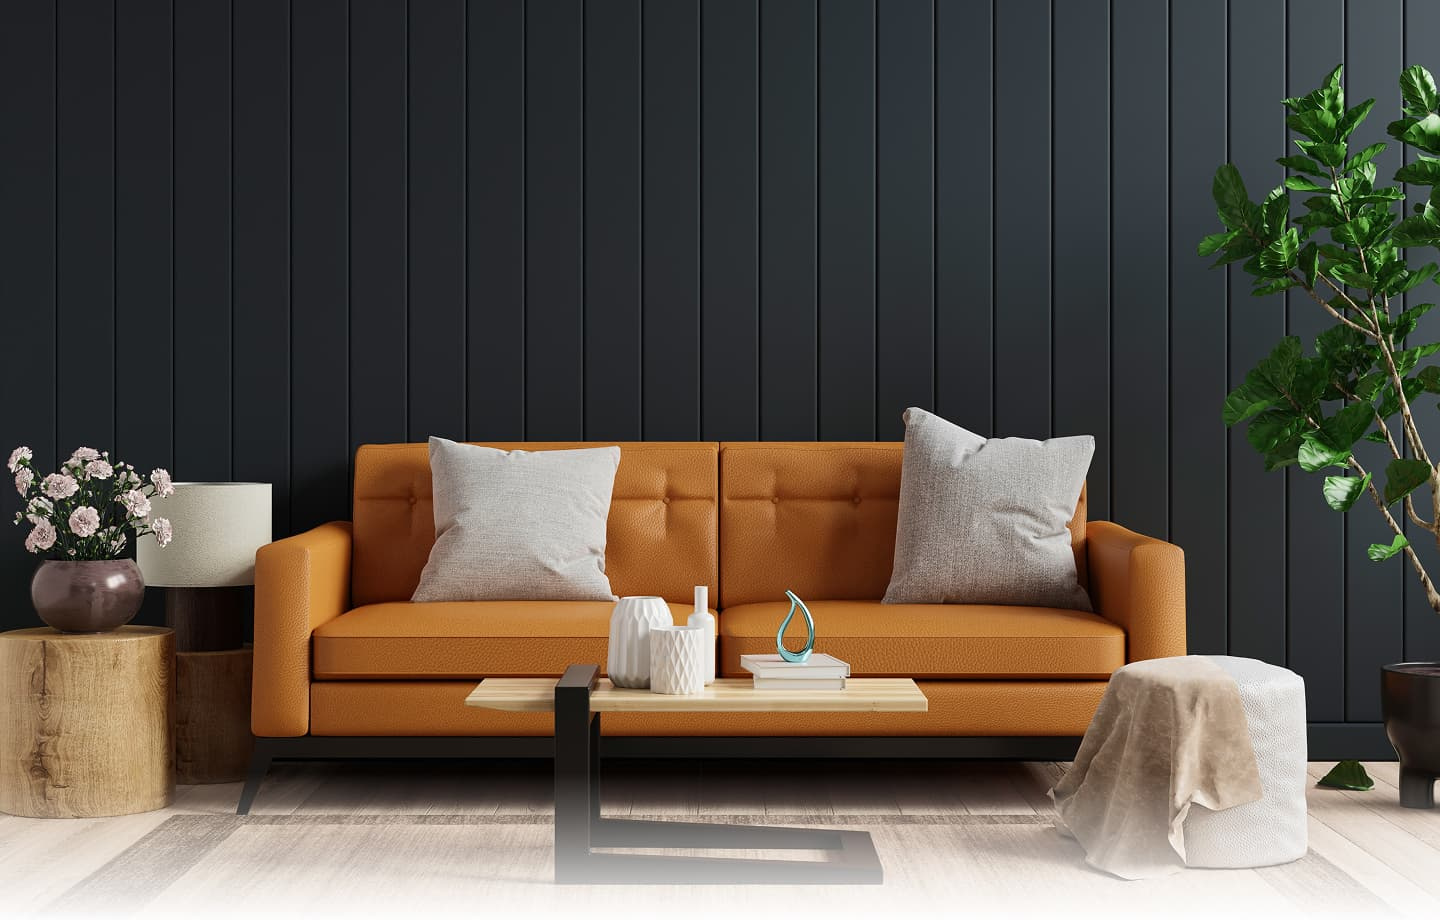
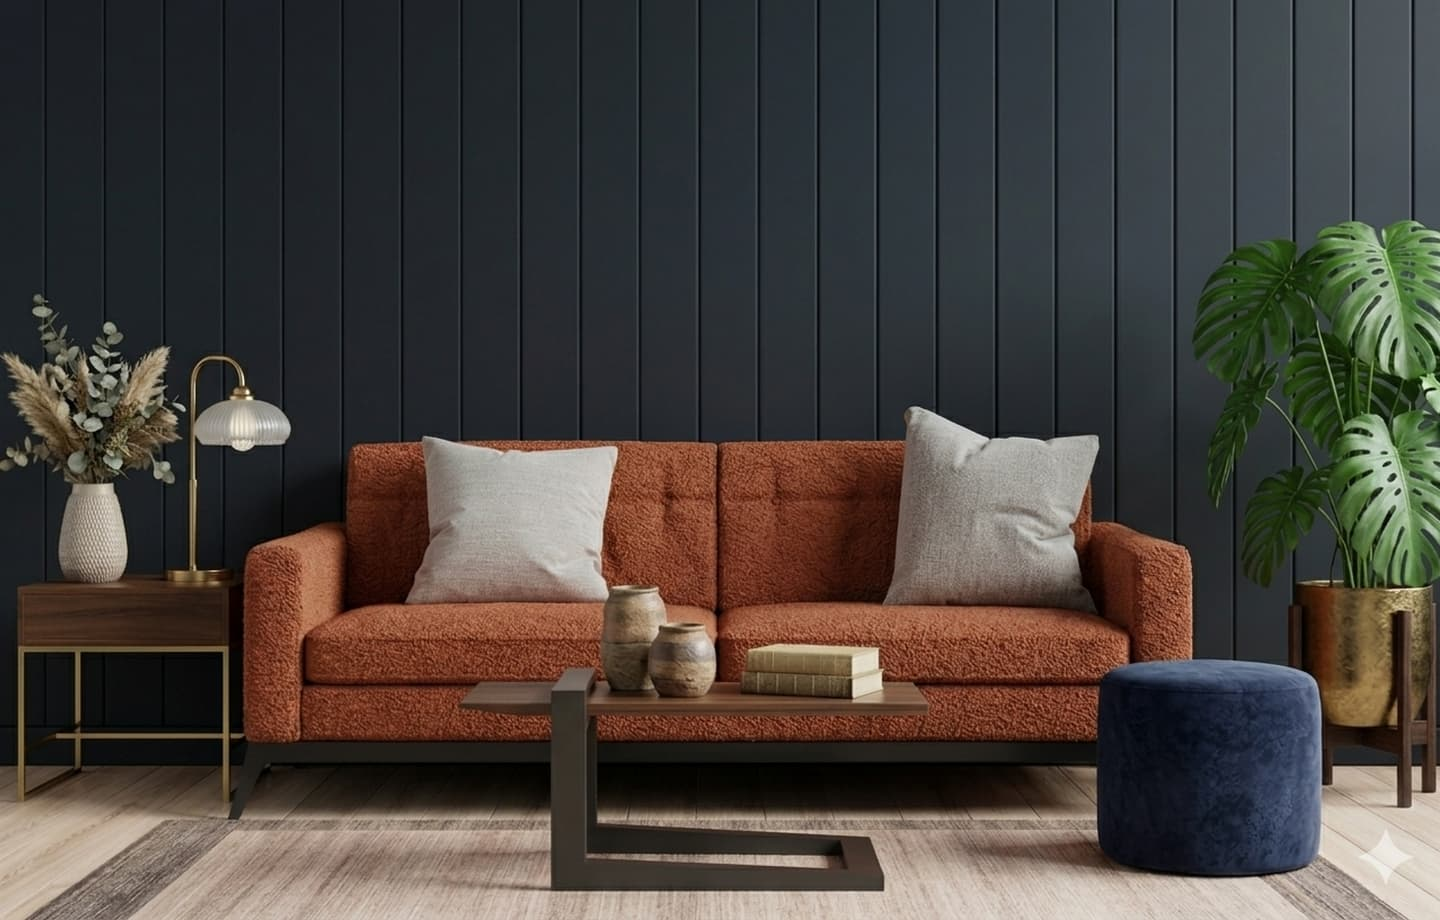
mobile menu

diff --git a/src/app/components/shared/MobileMenu.jsx b/src/app/components/shared/MobileMenu.jsx
@@ -1,0 +1,133 @@
+"use client";
+
+import { useState, useEffect, useRef } from "react";
+import { Menu, X, ArrowUp } from "lucide-react";
+import { menuItems } from "@/lib/constants";
+
+export default function MobileMenu() {
+  const [isOpen, setIsOpen] = useState(false);
+  const [isScrollingUp, setIsScrollingUp] = useState(false);
+  const [isPastHero, setIsPastHero] = useState(false);
+  const [scrollDirection, setScrollDirection] = useState("down");
+  const lastScrollYRef = useRef(0);
+  const heroHeightRef = useRef(0);
+
+  // Handle scroll detection for "Back to Top" button
+  useEffect(() => {
+    const handleScroll = () => {
+      const currentScrollY = window.scrollY;
+
+      // Get hero section height (viewport height as proxy)
+      const heroHeight = window.innerHeight;
+      heroHeightRef.current = heroHeight;
+
+      // Detect if past hero section
+      setIsPastHero(currentScrollY > heroHeight);
+
+      // Detect scroll direction
+      if (currentScrollY < lastScrollYRef.current) {
+        // Scrolling up
+        setScrollDirection("up");
+        setIsScrollingUp(currentScrollY > heroHeight);
+      } else {
+        // Scrolling down
+        setScrollDirection("down");
+        setIsScrollingUp(false);
+      }
+
+      lastScrollYRef.current = currentScrollY;
+    };
+
+    window.addEventListener("scroll", handleScroll, { passive: true });
+    return () => window.removeEventListener("scroll", handleScroll);
+  }, []);
+
+  const toggleMenu = () => {
+    setIsOpen(!isOpen);
+  };
+
+  const handleLinkClick = (e, item) => {
+    // Handle "Back to top" with smooth scroll
+    if (item.isBackToTop) {
+      e.preventDefault();
+      window.scrollTo({
+        top: 0,
+        behavior: "smooth",
+      });
+    }
+    setIsOpen(false);
+  };
+
+  // Show floating button on mobile when scrolling up and past hero
+  const shouldShowFloatingButton = isPastHero && isScrollingUp;
+
+  return (
+    <>
+      {/* Hamburger Button in navbar - always visible on mobile */}
+      <button
+        onClick={toggleMenu}
+        className="md:hidden flex items-center justify-center text-white hover:text-gray-200 transition-colors duration-200 focus:outline-none focus:ring-2 focus:ring-white focus:ring-offset-2 focus:ring-offset-transparent rounded"
+        aria-label="Toggle menu"
+        aria-expanded={isOpen}
+      >
+        {isOpen ? <X size={28} /> : <Menu size={28} />}
+      </button>
+
+      {/* Floating Hamburger Button - only visible on mobile when scrolling up past hero */}
+      {shouldShowFloatingButton && (
+        <button
+          onClick={toggleMenu}
+          className="md:hidden fixed bottom-8 right-8 z-50 flex items-center justify-center text-white bg-linear-to-br from-blue-600 to-blue-700 hover:from-blue-700 hover:to-blue-800 transition-all duration-300 rounded-full p-4 shadow-lg hover:shadow-xl focus:outline-none focus:ring-2 focus:ring-white focus:ring-offset-2 focus:ring-offset-transparent"
+          aria-label="Toggle menu"
+          aria-expanded={isOpen}
+        >
+          {isOpen ? <X size={28} /> : <Menu size={28} />}
+        </button>
+      )}
+
+      {/* Mobile Menu Panel */}
+      <div
+        className={`fixed left-0 top-0 min-h-screen w-64 bg-linear-to-b from-gray-900 to-gray-800 shadow-lg z-50 transform transition-transform duration-300 ease-in-out ${
+          isOpen ? "translate-x-0" : "-translate-x-full"
+        }`}
+      >
+        {/* Close Button */}
+        <div className="flex items-center justify-between p-5 border-b border-gray-700">
+          <span className="text-white text-lg font-semibold">Menu</span>
+          <button
+            onClick={toggleMenu}
+            className="text-white hover:text-gray-200 transition-colors focus:outline-none focus:ring-2 focus:ring-white rounded"
+            aria-label="Close menu"
+          >
+            <X size={24} />
+          </button>
+        </div>
+
+        {/* Menu Items */}
+        <nav className="pt-4">
+          {menuItems.map((item) => (
+            <a
+              key={item.href}
+              href={item.href}
+              onClick={(e) => handleLinkClick(e, item)}
+              className={`flex items-center gap-3 px-5 py-3 text-white navbar-item hover:bg-gray-700 transition-colors duration-200 border-b border-gray-700 last:border-b-0 ${
+                item.isBackToTop ? "bg-gray-800 font-semibold" : ""
+              }`}
+            >
+              {item.isBackToTop && <ArrowUp size={18} />}
+              {item.label}
+            </a>
+          ))}
+        </nav>
+      </div>
+
+      {/* Overlay/Backdrop - closes menu when clicked outside */}
+      {isOpen && (
+        <div
+          onClick={() => setIsOpen(false)}
+          className="fixed inset-0 bg-transparent z-40 md:hidden"
+        />
+      )}
+    </>
+  );
+}

diff --git a/src/lib/constants.js b/src/lib/constants.js
@@ -1,25 +1,35 @@
-const products = [
-  {
-    id: 1,
-    name: "Sakarias Armchair",
-    image: "/image/products/product_1.jpg",
-  },
-  {
-    id: 2,
-    name: "Baltsar Chair",
-    image: "/image/products/product_2.jpg",
-  },
-  {
-    id: 3,
-    name: "Anjay Chair",
-    image: "/image/products/product_3.jpg",
-  },
-  {
-    id: 4,
-    name: "Nyantuy Chair",
-    image: "/image/products/product_4.jpg",
-  },
+const menuItems = [
+  { href: "#features", label: "Features" },
+  { href: "#products", label: "Products" },
+  { href: "#experiences", label: "Experience" },
+  { href: "#materials", label: "Materials" },
+  { href: "#testimonials", label: "Testimonials" },
+  { href: "#contacts", label: "Contacts" },
+  { href: "#top", label: "Back to top", isBackToTop: true },
 ];
+
+// const products = [
+//   {
+//     id: 1,
+//     name: "Sakarias Armchair",
+//     image: "/image/products/product_1.jpg",
+//   },
+//   {
+//     id: 2,
+//     name: "Baltsar Chair",
+//     image: "/image/products/product_2.jpg",
+//   },
+//   {
+//     id: 3,
+//     name: "Anjay Chair",
+//     image: "/image/products/product_3.jpg",
+//   },
+//   {
+//     id: 4,
+//     name: "Nyantuy Chair",
+//     image: "/image/products/product_4.jpg",
+//   },
+// ];
 
 const testimonials = [
   {
@@ -98,9 +108,9 @@ const testimonials = [
 const works = [
   {
     id: 1,
-    name: "White Sofa",
-    before: "/image/products/photo_1_1.jpg",
-    after: "/image/products/photo_1_2.jpg",
+    name: "Red Sofa",
+    before: "/image/products/photo_4_1.jpg",
+    after: "/image/products/photo_4_2.jpg",
   },
   {
     id: 2,
@@ -116,10 +126,10 @@ const works = [
   },
   {
     id: 4,
-    name: "Red Sofa",
-    before: "/image/products/photo_4_1.jpg",
-    after: "/image/products/photo_4_2.jpg",
+    name: "White Sofa",
+    before: "/image/products/photo_1_1.jpg",
+    after: "/image/products/photo_1_2.jpg",
   },
 ];
 
-export { products, testimonials, works };
+export { menuItems, testimonials, works };

diff --git a/src/app/components/layout/Products.jsx b/src/app/components/layout/Products.jsx
@@ -1,7 +1,5 @@
 "use client";
 
-import { products } from "@/lib/constants";
-import Image from "next/image";
 import Slider from "../shared/Slider";
 import { works } from "@/lib/constants";
 import CompareSlider from "../shared/CompareSlider";
@@ -10,7 +8,6 @@ export default function Products() {
   return (
     <section
       id="products"
-      // className="py-10 max-w-360 px-22.5 md:px-37 bg-[#F7F7F7] flex flex-col gap-10"
       className="max-w-360 w-full py-5 flex flex-col items-center justify-center overflow-hidden"
     >
       <p className="text-3xl sm:text-4xl font-bold text-center">
@@ -20,25 +17,6 @@ export default function Products() {
       <div className="max-w-90 sm:max-w-149 md:max-w-218.5 desktop:max-w-360 flex flex-col items-center">
         <Slider slides={works} CardComponent={CompareSlider} />
       </div>
-
-      {/* <div
-        id="products"
-        className="grid grid-cols-1 sm:grid-cols-2 desktop:grid-cols-4 gap-10.5 items-center justify-center"
-      >
-        {products.map((product) => (
-          <div
-            key={product.id}
-            className="relative overflow-hidden rounded-3xl h-123 w-67  justify-self-center cursor-pointer"
-          >
-            <Image
-              src={product.image}
-              alt={product.name}
-              fill={true}
-              sizes="(max-width: 768px) 100vw, 60vw"
-            />
-          </div>
-        ))}
-      </div> */}
     </section>
   );
 }

diff --git a/src/app/components/layout/Hero.jsx b/src/app/components/layout/Hero.jsx
@@ -1,5 +1,7 @@
 "use client";
 
+import MobileMenu from "@/app/components/shared/MobileMenu";
+
 export default function Hero() {
   return (
     <section className="bg-[url('/image/hero.jpg')] bg-cover bg-center min-h-screen min-w-full flex flex-col justify-between">
@@ -29,7 +31,8 @@ export default function Hero() {
               Contacts
             </a>
           </div>
-          {/* Mobile menu button - can be added later if needed */}
+          {/* Mobile Menu */}
+          <MobileMenu />
         </nav>
 
         {/* Hero Content */}

diff --git a/src/app/components/shared/Slider.jsx b/src/app/components/shared/Slider.jsx
@@ -2,7 +2,6 @@
 import React from "react";
 import { Swiper, SwiperSlide } from "swiper/react";
 import { Navigation, Autoplay, Pagination } from "swiper/modules";
-// import ReviewCard from "./ReviewCard";
 
 import "swiper/css";
 import "swiper/css/navigation";
